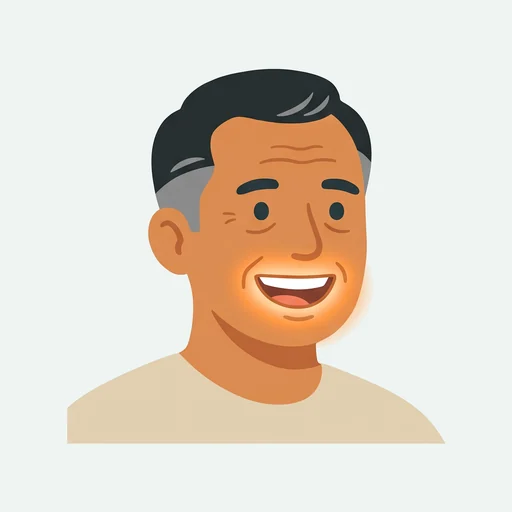
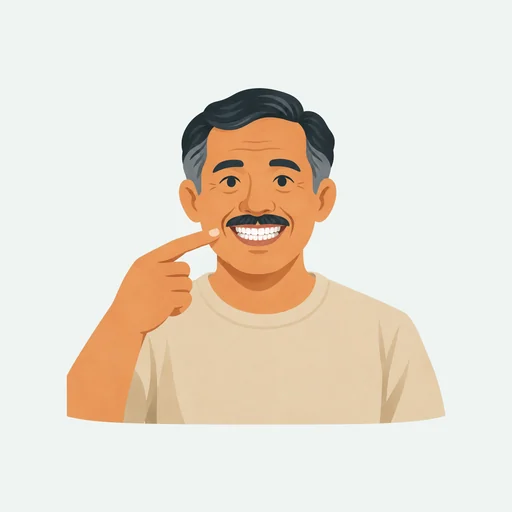
Ilustrasi anggota tubuh dibuat ulang (langganan ChatGPT): 15 kata + sampul kategori, obat tanpa orang
- Gaya seragam: Pak Budi menunjuk/menyentuh bagian tubuh, tanpa pendar/halo/kulit oranye
- kaki: tampak pinggang ke bawah agar tidak tertukar dengan 'duduk'
- Cache runtime ilustrasi berversi (src/config/cacheIlustrasi.ts, pulihin-ilustrasi-2); cache lama dihapus saat
  aplikasi dibuka agar HP yang sudah menyimpan gambar lama ikut mendapat gambar baru

Changed region(s): [[0.125, 0.125, 0.875, 0.875]]

diff --git a/src/features/speech/asetKata.ts b/src/features/speech/asetKata.ts
@@ -1,7 +1,7 @@
 /**
  * Gambar kata afasia (`public/ilustrasi/kata/<kataId>.webp`, 512x512) dan unduhan lanjutannya.
  *
- * Service worker tidak mem-precache gambar kata (100 berkas); runtime cache CacheFirst `pulihin-ilustrasi`
+ * Service worker tidak mem-precache gambar kata (100 berkas); runtime cache CacheFirst `CACHE_ILUSTRASI`
  * (vite.config.ts) menyimpan setiap gambar yang lewat SW. Agar satu sesi 10 kata tetap lengkap saat sinyal
  * hilang di tengah latihan (Mode Latihan Mandiri tidak butuh internet), `simpanGambarSesi` mengunduh ke-10
  * gambar sesi begitu sesi dimulai. Dilewati bila Penghemat Data/2G aktif atau halaman belum dikendalikan SW
@@ -9,10 +9,8 @@
  */
 
 import { srcIlustrasi } from '@/components/premium/asetIlustrasi';
+import { CACHE_ILUSTRASI } from '@/config/cacheIlustrasi';
 import { hematData } from '@/features/pose/asetPose';
-
-/** Harus sama dengan `cacheName` runtimeCaching `/ilustrasi/` di vite.config.ts. */
-const CACHE_ILUSTRASI = 'pulihin-ilustrasi';
 
 const sedangDipramuat = new Set<string>();
 

diff --git a/src/config/cacheIlustrasi.ts b/src/config/cacheIlustrasi.ts
@@ -1,0 +1,16 @@
+/**
+ * Nama cache runtime service worker untuk `public/ilustrasi/` (dipakai vite.config.ts dan asetKata.ts).
+ * Strateginya CacheFirst dengan URL tetap, jadi gambar yang isinya diganti TIDAK pernah diambil ulang oleh
+ * perangkat yang sudah menyimpannya. Setiap kali isi berkas ilustrasi berubah: naikkan versi di sini dan
+ * pindahkan nama lama ke `CACHE_ILUSTRASI_LAMA` agar dihapus saat aplikasi dibuka.
+ */
+export const CACHE_ILUSTRASI = 'pulihin-ilustrasi-2';
+
+/** Nama cache ilustrasi versi sebelumnya; dihapus oleh `hapusCacheIlustrasiLama`. */
+export const CACHE_ILUSTRASI_LAMA = ['pulihin-ilustrasi'] as const;
+
+/** Hapus cache ilustrasi versi lama (gambar yang sudah diganti) agar tidak memakan ruang di HP. Tidak melempar galat. */
+export function hapusCacheIlustrasiLama(): void {
+  if (typeof window === 'undefined' || !('caches' in window)) return;
+  for (const nama of CACHE_ILUSTRASI_LAMA) void caches.delete(nama).catch(() => undefined);
+}

diff --git a/vite.config.ts b/vite.config.ts
@@ -4,6 +4,7 @@ import react from '@vitejs/plugin-react';
 import tailwindcss from '@tailwindcss/vite';
 import { defineConfig } from 'vite';
 import { VitePWA } from 'vite-plugin-pwa';
+import { CACHE_ILUSTRASI } from './src/config/cacheIlustrasi.ts';
 
 export default defineConfig({
   resolve: {
@@ -108,7 +109,7 @@ export default defineConfig({
             urlPattern: ({ url }) => url.pathname.startsWith('/ilustrasi/'),
             handler: 'CacheFirst',
             options: {
-              cacheName: 'pulihin-ilustrasi',
+              cacheName: CACHE_ILUSTRASI,
               expiration: { maxEntries: 140 },
               cacheableResponse: { statuses: [200], headers: { 'content-type': 'image/webp' } },
               matchOptions: { ignoreVary: true },

diff --git a/src/main.tsx b/src/main.tsx
@@ -1,6 +1,7 @@
 import { StrictMode } from 'react';
 import { createRoot } from 'react-dom/client';
 import { RouterProvider } from 'react-router/dom';
+import { hapusCacheIlustrasiLama } from '@/config/cacheIlustrasi';
 import { ensureDemoData } from '@/data/seed';
 import { applyPrefsToDocument } from '@/lib/prefs';
 import { pasangPenjagaJaringan } from '@/lib/privasiJaringan';
@@ -12,6 +13,7 @@ pasangPenjagaJaringan();
 applyPrefsToDocument();
 // Data demo ditanam sekali saat pembukaan pertama agar aplikasi langsung terlihat hidup (Bab 10.1).
 void ensureDemoData().catch((e: unknown) => console.error('Gagal menyiapkan data demo', e));
+hapusCacheIlustrasiLama();
 
 createRoot(document.getElementById('root')!).render(
   <StrictMode>
